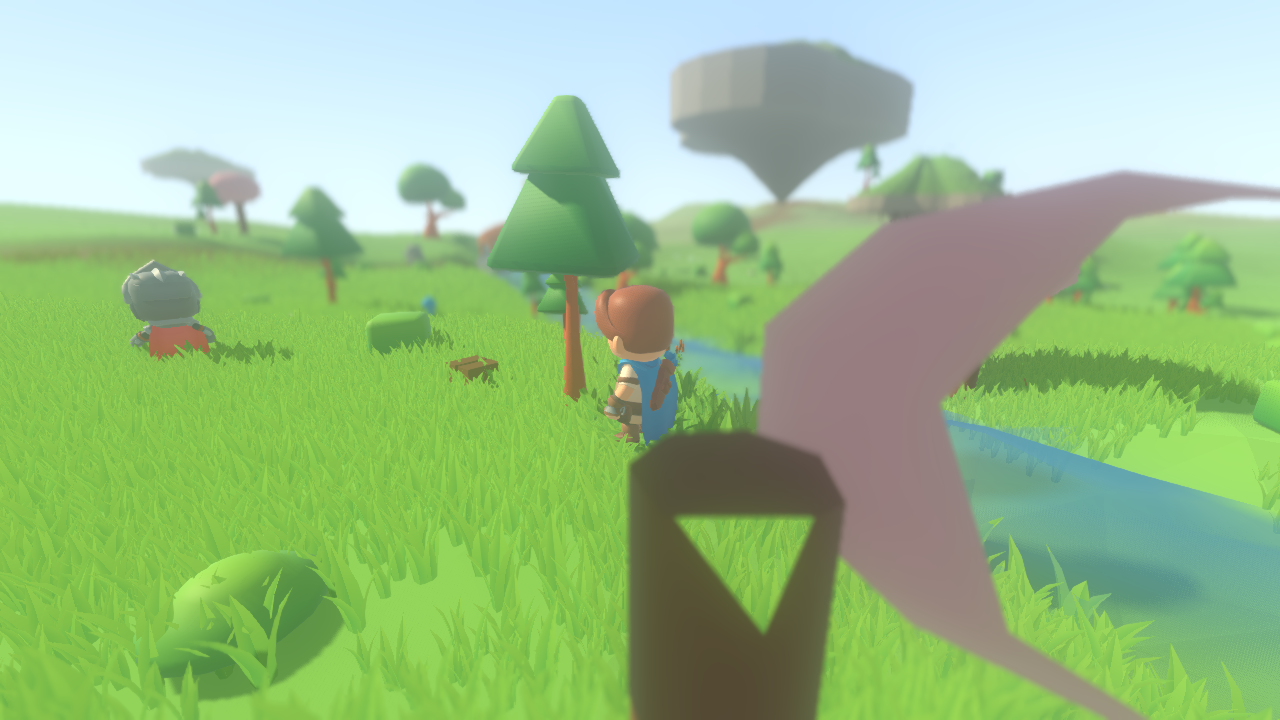
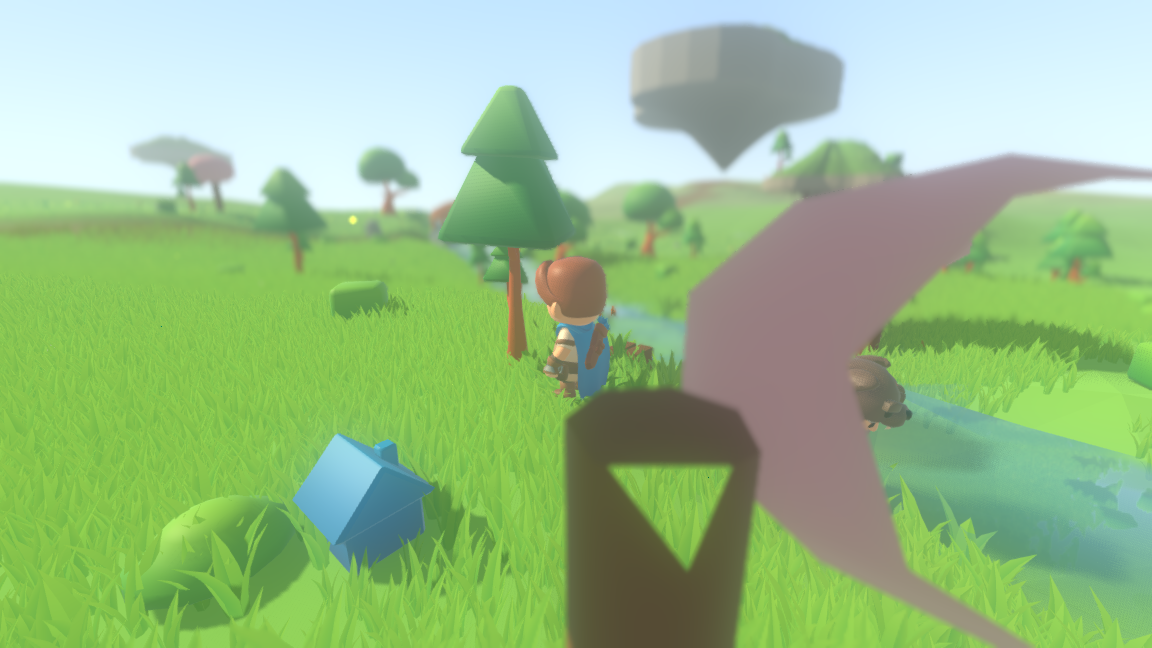
Ground items re-verified against the tree that ships: counts, photographs, fingerprint
The report carried numbers from the tree at ee84eda. Re-measured on HEAD:
thirteen gear names not twelve, seventy-one catalog tags with sixty-three on
an installed model, and 37 shipped items across six scenarios rather than 31
across five -- the six fallbacks are unchanged, which is the number the
acceptance line asks for.

The two encounter frames are re-taken against today's tree, and the probe
grew a fifth section that prints the ground of that same scenario at that
same seed and tick, so the photograph has a command behind it instead of an
unrecorded transcript.

The fingerprint is quoted with its reason: this work item left it at
baac1b9efedf472a (measured either side of ee84eda in a worktree), and 6d5c44a
-- enemies in the running game -- moved it to 32656f55cc5eeb1c, with the
tick-100 census identical in every terrain term and cast going 3 to 5.

diff --git a/reports/ground-items.md b/reports/ground-items.md
@@ -29,7 +29,7 @@ row of `render/asset_library.gd`.
 
 | file | layer | what it added |
 |---|---|---|
-| `sim/asset_tags.gd` | sim | a `gear` category: twelve names, no models |
+| `sim/asset_tags.gd` | sim | a `gear` category: thirteen names, no models |
 | `sim/item_model.gd` | sim | the two-column table from a shape to a name |
 | `sim/item.gd` | sim | one field, `model`: the name an item goes by |
 | `sim/item_forge.gd` | sim | writes that field from the shape it drew |
@@ -90,10 +90,11 @@ about rarity, and this is the first place it can be judged rather than read.
 | `gear_boots`, `gear_leggings`, `gear_chestplate`, `gear_helmet` | placeholder — no free pack holds armour off a body |
 | `gear_bundle` | placeholder — see below; it is not a shape anything forges |
 
-Across the whole catalog that is **seventy tags, fifty-nine on an installed
-model and eleven on their placeholder**. Every row carries its placeholder
-underneath either way, so a checkout without the packs draws the coloured world
-rather than an empty one.
+Across the whole catalog `./run_assets.sh` now reports **seventy-one tags,
+sixty-three on an installed model and eight on their placeholder** (nine of the
+thirteen `gear` names are on a model; the four armour names are not). Every row
+carries its placeholder underneath either way, so a checkout without the packs
+draws the coloured world rather than an empty one.
 
 ---
 
@@ -108,9 +109,11 @@ The decision is the render layer's on purpose. The simulation's honest answer is
 that it does not know what a wool blanket looks like; the render layer's answer
 is that something has to be visible anyway.
 
-**Of the 31 items the five shipped scenarios put in the world, 6 take the
-fallback**  (37 out of six scenarios since the battle scenario landed, which is
-the encounter scenario counted a second time; the fallbacks are the same six): three brass lanterns, a wool blanket, an iron key and a silver ring.
+**Of the 37 items the six shipped scenarios put in the world, 6 take the
+fallback**: three brass lanterns, a wool blanket, an iron key and a silver ring.
+(It was 31 out of five when this was written; the battle scenario landed after,
+which is the encounter's cast counted a second time, so the total moved and the
+six fallbacks did not.)
 Every one of them is a hand-slot object with no gear shape — the numbers are in
 `tools/ground_items_probe.sh`, and both are compared against constants in
 `tests/test_ground_items.gd`, so an item added with no shape recorded fails a
@@ -177,20 +180,30 @@ One seeded run of the encounter scenario, seed 1234, photographed before and
 after. The amber commander is standing in the first frame and gone in the
 second, and where it stood there is a pair of boots.
 
-    ./run_render.sh --scenario encounter --camera -4 3 -5 --aim 1.2 \
+    xvfb-run -a ./run_render.sh --scenario encounter --camera -4 3 -5 --aim 1.2 \
         --screenshot-ticks "18:before.png,40:after.png"
 
 ![Three characters standing: the knight in front, the amber commander behind](assets/ground-drop-before.png)
 
 ![The amber commander is gone and its boots lie in the grass where it stood](assets/ground-drop-after.png)
 
-What the simulation says about that moment, read out of the same run headless:
+What the simulation says about that moment, printed by the same probe out of the
+same scenario at the same seed and the same tick, so the picture can be read as
+numbers rather than counted in pixels (`./tools/ground_items_probe.sh`, section
+five):
 
 ```
-ground #9 pile at (-478.50, -2.11, 418.50): [{"name":"common boots",
-  "rarity":"common","level":2,"model":"gear_boots"}]
-drawn common boots as gear_boots at (-478.50, 418.50) fallback=false
+=== the encounter, at the tick the report photographs it ===
+  seed=1234 ticks=40
+    #9 pile at (-481.50, -2.72, 421.50) holding 1
+    drawn common boots           as gear_boots       at (-481.50, 421.50)
 ```
+
+The two frames and that transcript were re-taken against the tree that ships
+today. They were first taken at `ee84eda`, where the same pile stood at
+`(-478.50, 418.50)`; the fight has since drifted three units because the world
+around it gained a cast (see the fingerprint note at the end), and it is still
+one pair of boots on the ground where the body was.
 
 It carried two things and one fell, which is the one-in-five rule doing what it
 does. `tools/ground_items_probe.sh` prints the other seeded run -- the skirmish
@@ -243,7 +256,7 @@ the ground at the start.
    turn up.
 3. An item with no shape recorded resolves to nothing and is drawn as the
    fallback; a named one is not.
-4. The shipped scenarios hold exactly 31 items and exactly 6 of them fall
+4. The shipped scenarios hold exactly 37 items and exactly 6 of them fall
    back.
 5. For piles of 1, 2, 3, 5, 8, 13 and 24, no two things land closer than the
    spacing, the heap stays inside $0.85\sqrt{n}$, and the first thing is at the
@@ -254,5 +267,51 @@ the ground at the start.
 7. An item picked up and dropped back is the same item by every number and is
    the same object.
 
-The two structure checks (`./run_tests.sh --layers-only`) pass: the simulation
-names no art and the render layer holds no piece of the fight.
+---
+
+## The structure checks, and the fingerprint
+
+`./run_tests.sh --layers-only` runs the checks that keep the layers apart. There
+were two when this work item was planned; there are four now, and all four pass:
+
+```
+layer check:      OK -- res://sim references nothing in the render layer
+combat check:     OK -- res://render draws the fight and holds none of it
+interface check:  OK -- res://render/ui names its art through sprout_pack.gd alone
+asset check:      OK -- res://sim names asset tags and no asset
+```
+
+The fourth is the one this change is answerable to: it fails the build if any
+file under `sim/` ever names a pack, a scene or a texture path.
+
+### The fingerprint
+
+The world fingerprint is the digest of a hundred ticks of the seed-1234 world.
+**This change did not move it, and something after it did.** Measured commit by
+commit in a worktree, one run of `./run_headless.sh --seed 1234 --ticks 100` per
+checkout:
+
+| commit | what it was | fingerprint |
+|---|---|---|
+| `09764d8` | the commit before this one | `baac1b9efedf472a` |
+| `ee84eda` | **this work item** | `baac1b9efedf472a` |
+| `6d5c44a` | enemies in the running game | `32656f55cc5eeb1c` |
+| `8920039` | a fight a person plays | `32656f55cc5eeb1c` |
+| `82b750d` | who owns a point | `32656f55cc5eeb1c` |
+| `fe83708` | gear drawn from the packs | `32656f55cc5eeb1c` |
+| `7eefecb` | a blow the render layer can draw | `32656f55cc5eeb1c` |
+| `bd014e0` | today's HEAD | `32656f55cc5eeb1c` |
+
+**The reason it moved, and where:** at `6d5c44a`, the commit that made enemies
+stream into the running world. The tick-100 census either side of it is
+identical in every terrain term and differs in exactly one:
+
+```
+ee84eda  chunks=39 islands=12 villages=0 roads=4 props=598 cover=35 cast=3 ...
+6d5c44a  chunks=39 islands=12 villages=0 roads=4 props=598 cover=35 cast=5 ...
+```
+
+Same ground, same islands, same roads, same 598 props, same 35 pieces of cover —
+two more characters standing in it, which is what the enemy streamer was for.
+Nothing under the item layer or the render layer touched the world's generation,
+and the fingerprint has not moved since.
